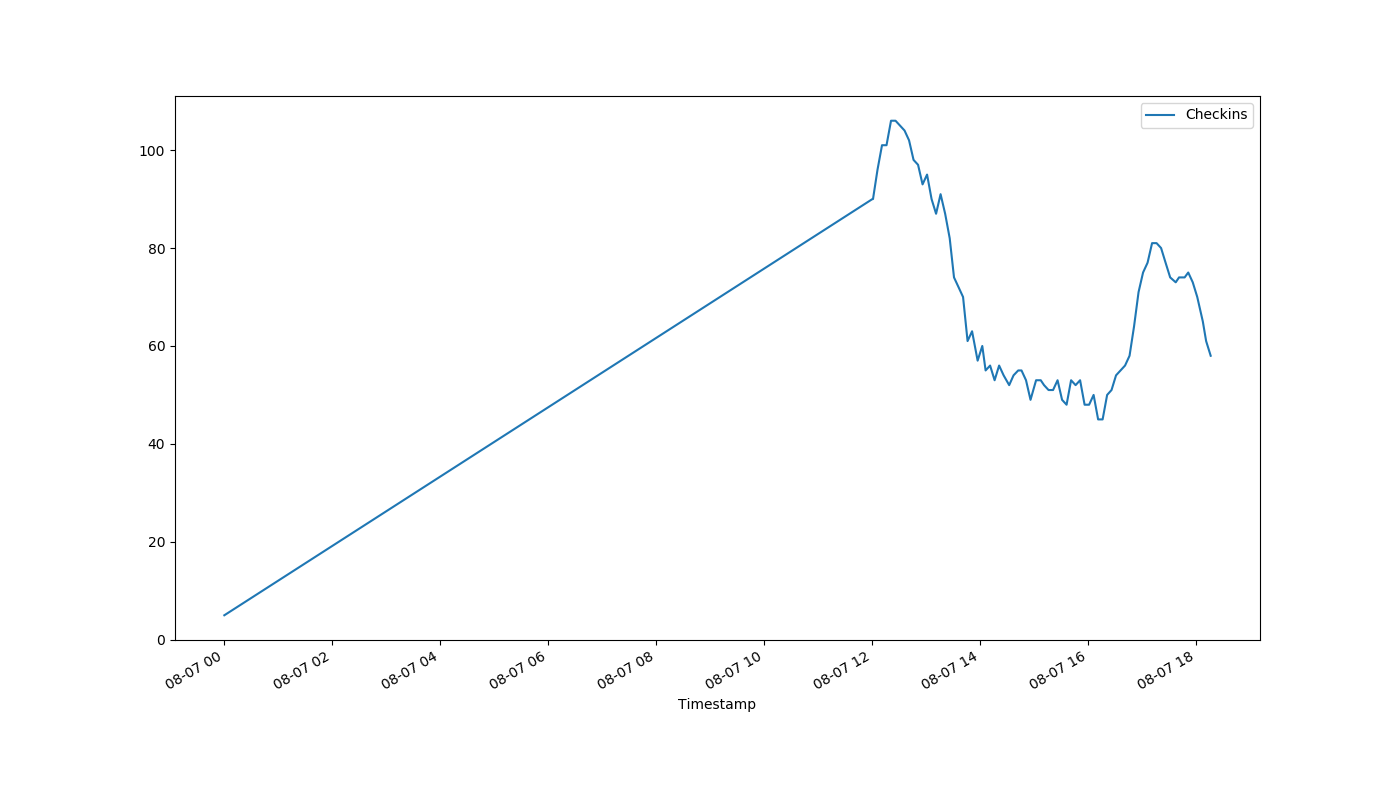
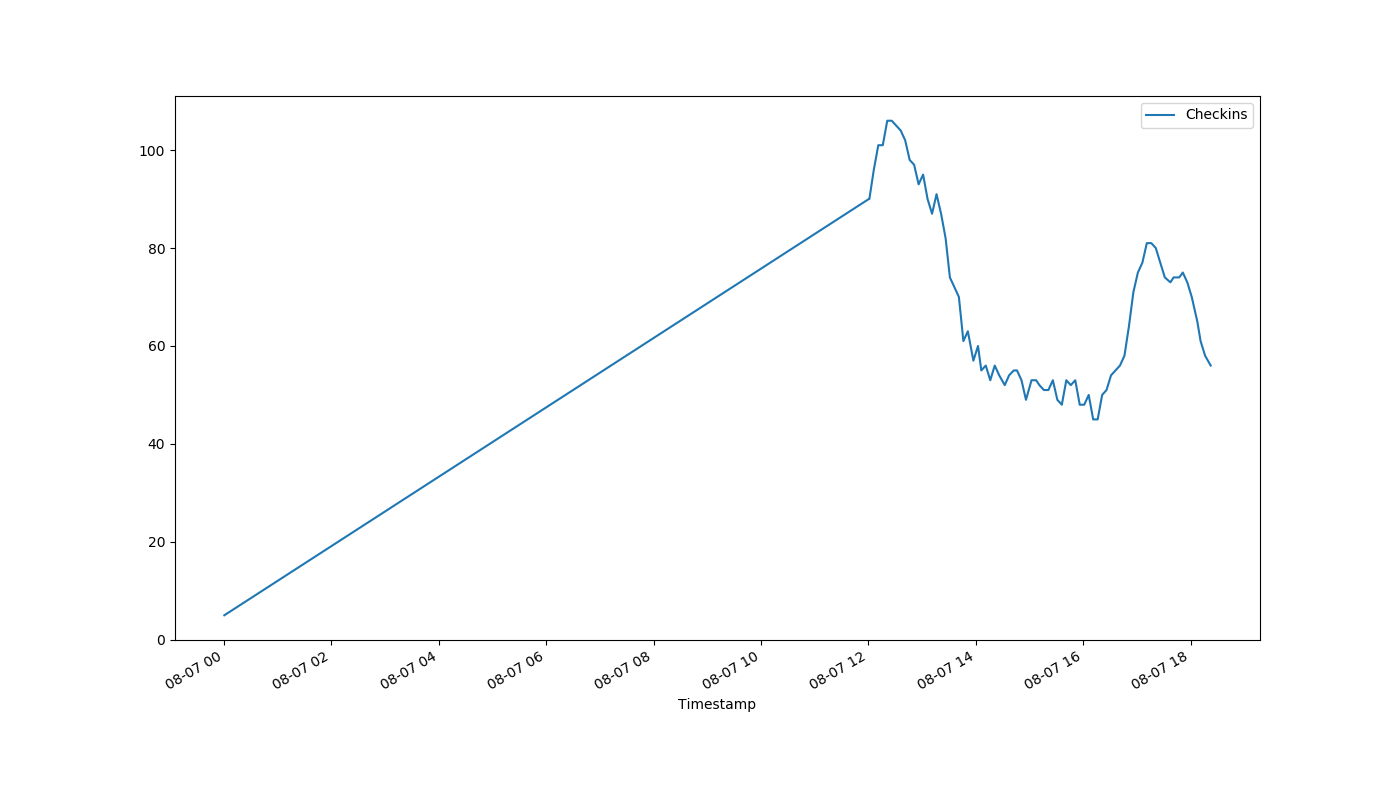
auto-Aug-07-18:24:14

diff --git a/index.html b/index.html
@@ -1,1 +1,1 @@
-<!DOCTYPE html><html><head><meta http-equiv="refresh" content="30"><link rel='stylesheet' href='holmcurrent.css'></head><body><p id='count'>58</p><div id='graph-wrap'><img id='graph' src='holmgraph-Aug-07.png'></div><p id='updated'>Last updated 18:17:04 / 18:16:12</p></body></html>
+<!DOCTYPE html><html><head><meta http-equiv="refresh" content="30"><link rel='stylesheet' href='holmcurrent.css'></head><body><p id='count'>56</p><div id='graph-wrap'><img id='graph' src='holmgraph-Aug-07.png'></div><p id='updated'>Last updated 18:23:04 / 18:22:25</p></body></html>
